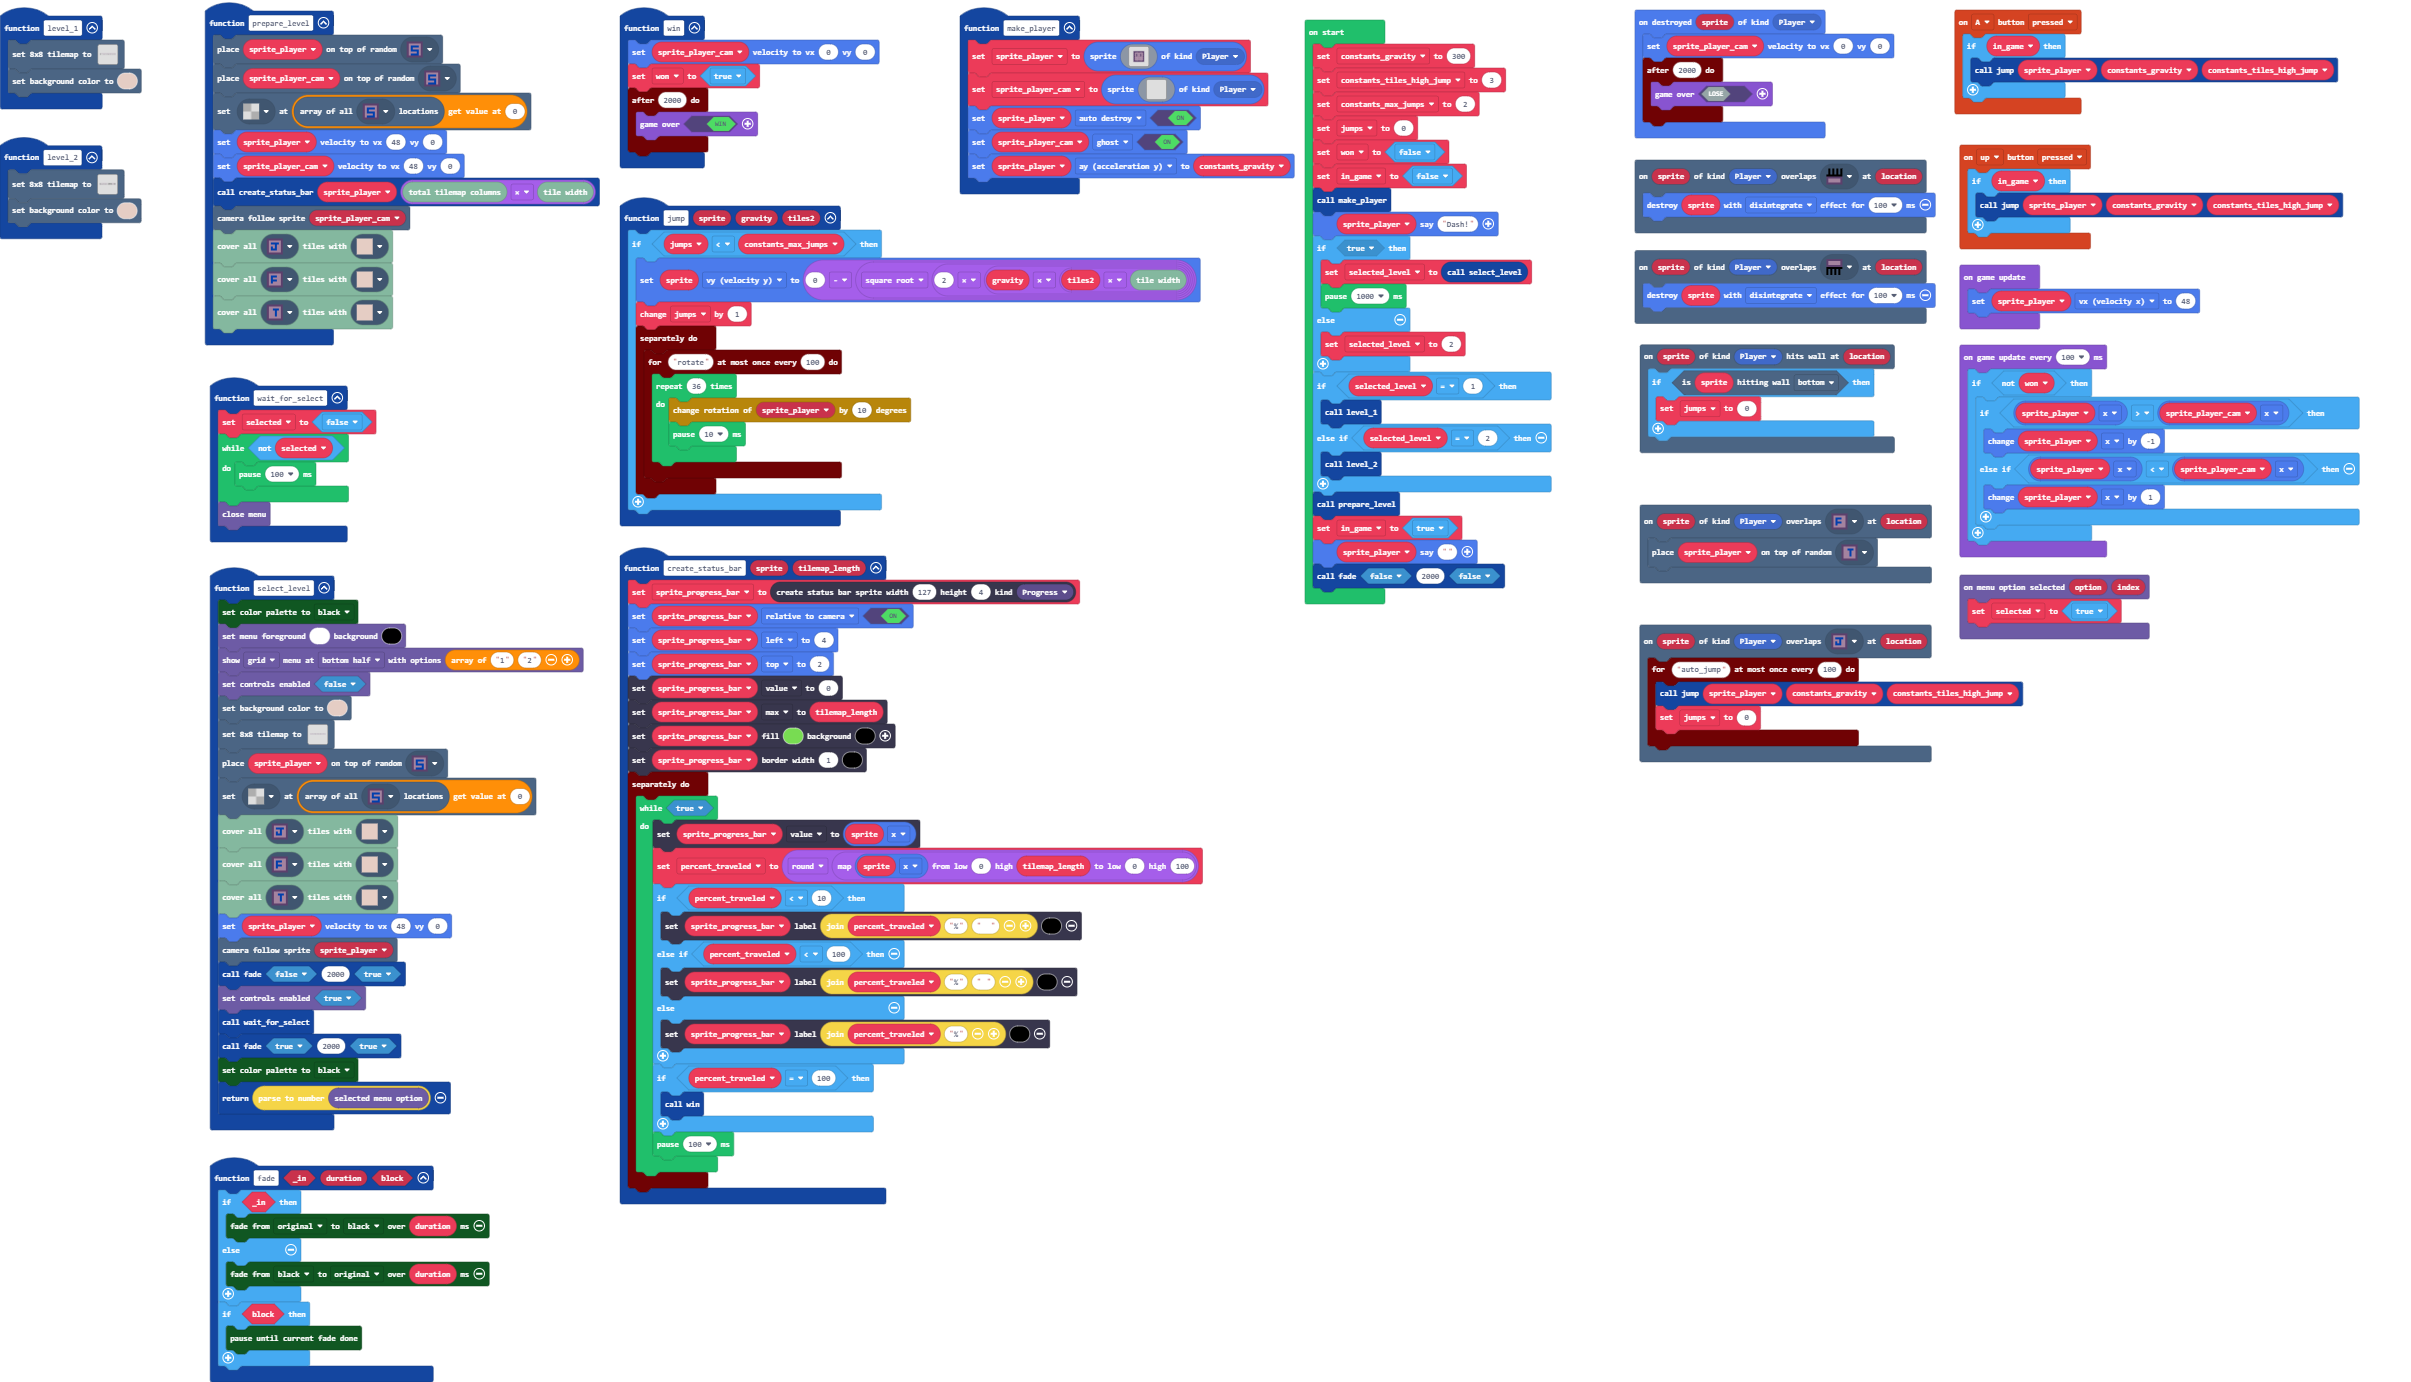
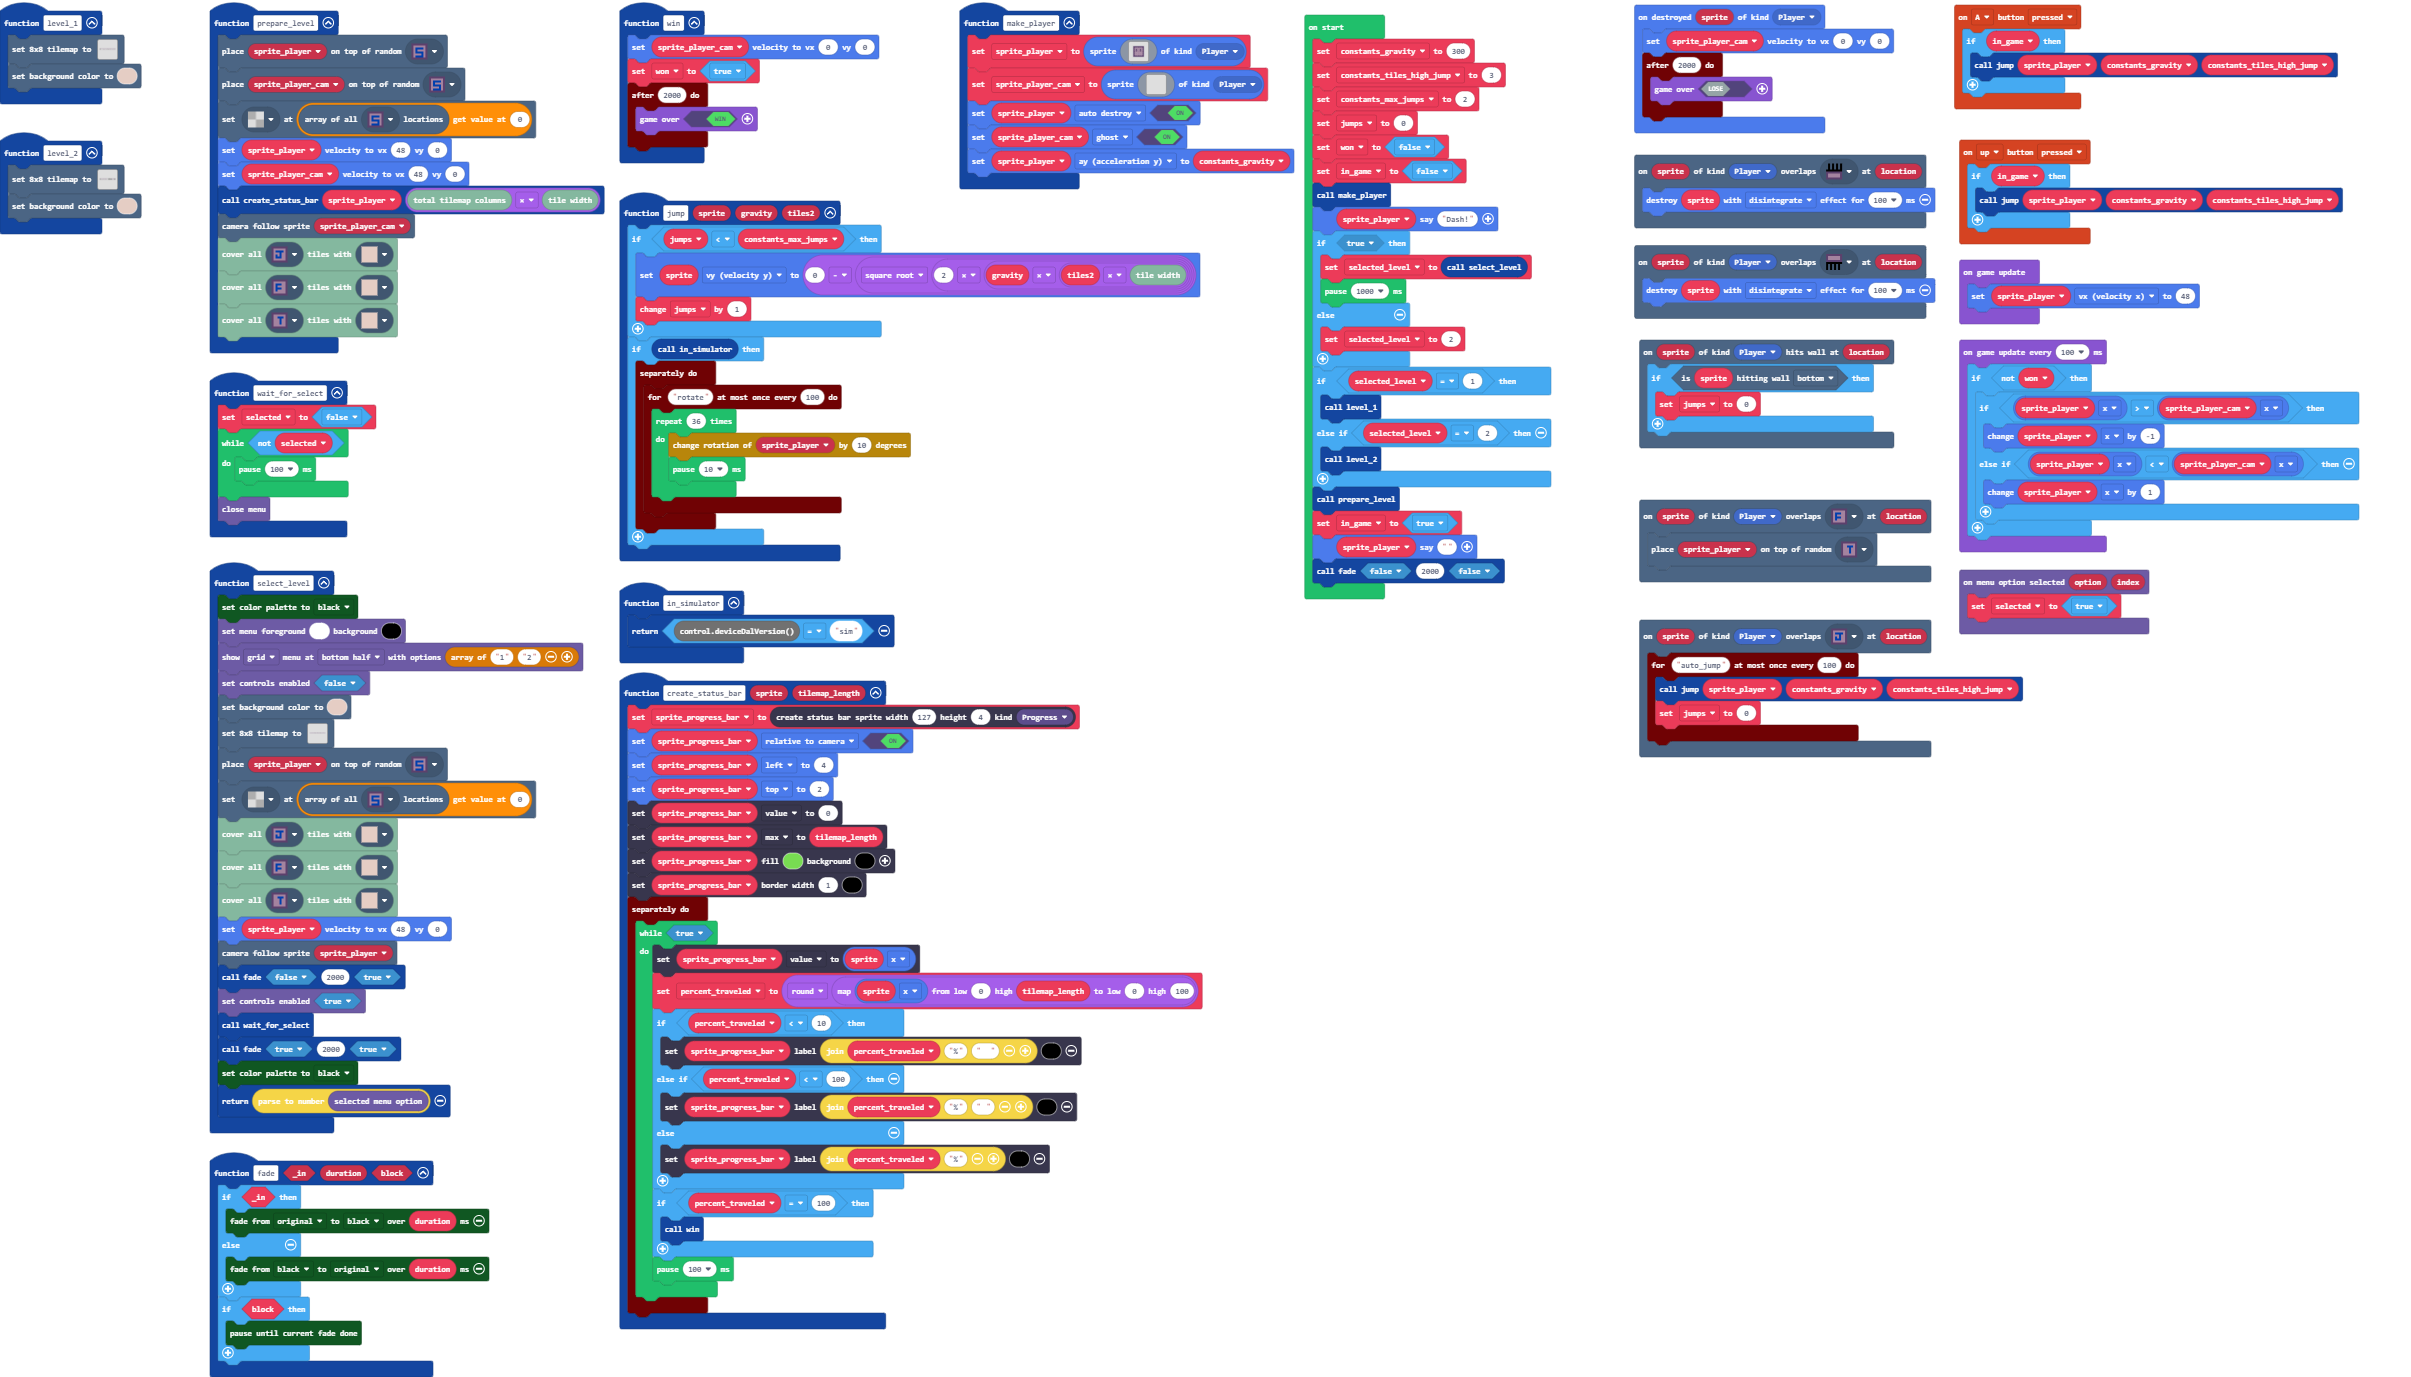
Only rotate image if in simulator

Changed region(s): [[0.0, 0.0, 0.6533, 0.968], [0.6844, 0.0, 0.9954, 0.5621]]

diff --git a/main.ts b/main.ts
@@ -117,6 +117,8 @@ function jump (sprite: Sprite, gravity: number, tiles2: number) {
     if (jumps < constants_max_jumps) {
         sprite.vy = 0 - Math.sqrt(2 * (gravity * (tiles2 * tiles.tileWidth())))
         jumps += 1
+    }
+    if (in_simulator()) {
         timer.background(function () {
             timer.throttle("rotate", 100, function () {
                 for (let index = 0; index < 36; index++) {
@@ -126,6 +128,9 @@ function jump (sprite: Sprite, gravity: number, tiles2: number) {
             })
         })
     }
+}
+function in_simulator () {
+    return control.deviceDalVersion() == "sim"
 }
 function fade (_in: boolean, duration: number, block: boolean) {
     if (_in) {
